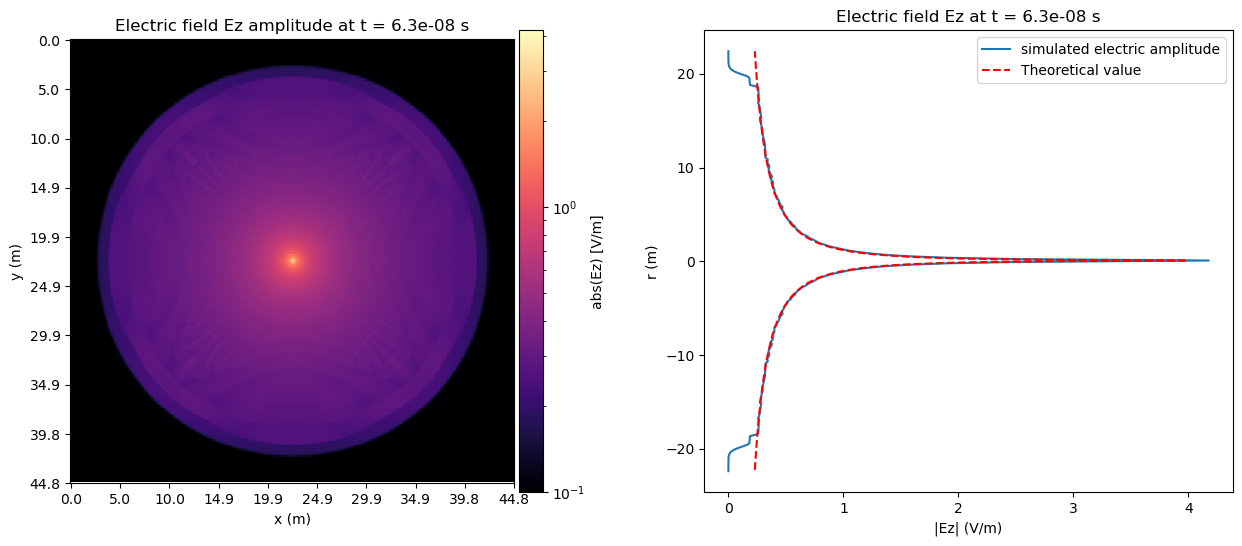
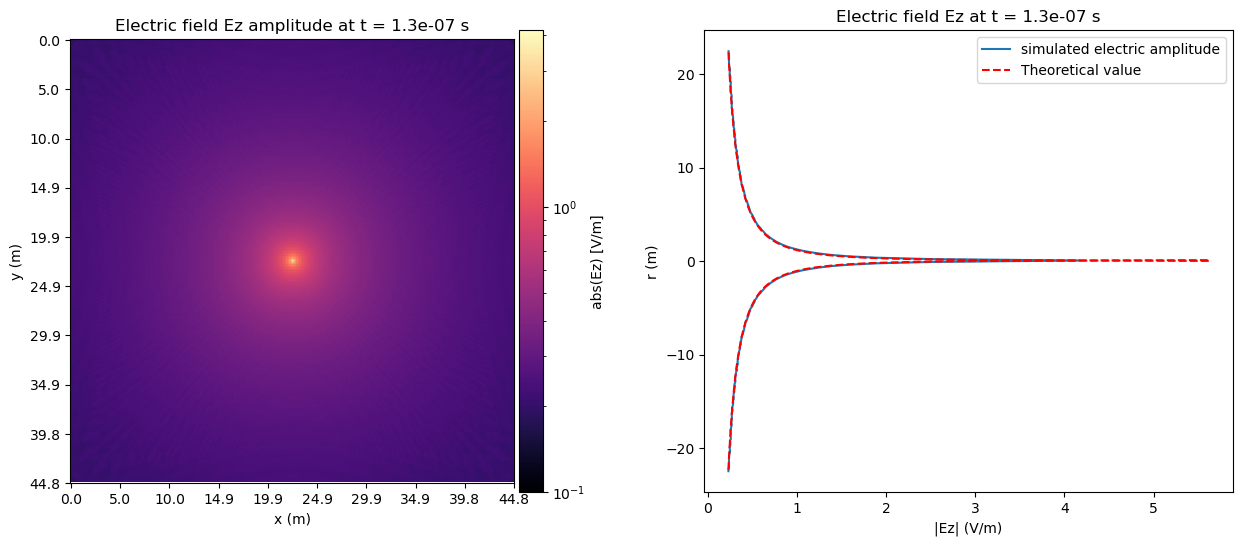
better current validation

diff --git a/2D/validation_current_line.py b/2D/validation_current_line.py
@@ -20,7 +20,7 @@ from matplotlib.axes import Axes
 
 # parameters
 # settings parameters
-M = 300  # number of space samples per dimension
+M = 600  # number of space samples per dimension
 FREQ_REF = 1e8  # Hz
 Q = int(M / 1.2)  # number of time steps
 TOTAL_CURRENT = 0.01  # A
@@ -72,7 +72,7 @@ im = plot_field(
     ax1,
     DELTA_T,
     DELTA_X,
-    E_amplitude,
+    E_amplitude[150:450, 150:450],
     norm_type="log",
     min_color_value=0.1,
 )
@@ -82,8 +82,8 @@ ax1.set_title(f"Electric field Ez amplitude at t = {DELTA_T * Q:.1e} s")
 E_max = np.max(np.abs(E_amplitude))
 
 ax2.plot(
-    np.abs(E_amplitude[M // 2, :]),
-    np.linspace(0, TOTAL_X, M) - TOTAL_X / 2,
+    np.abs(E_amplitude[M // 2, 150:450]),
+    np.linspace(0, TOTAL_X/2, round(M/2)) - TOTAL_X / 4,
     label=f"simulated electric amplitude",
 )
 ax2.set_ylabel("r (m)")
@@ -93,14 +93,14 @@ ax2.set_title(f"Electric field Ez at t = {DELTA_T * Q:.1e} s")
 # add the theoritical value
 Z_0 = np.sqrt(u0 / e0)
 beta = 2 * np.pi * FREQ_REF / C_VIDE
-x_axis = np.linspace(0, TOTAL_X / 2, M )
+x_axis = np.linspace(0, TOTAL_X / 4, M)
 
 
 E_theoritical = TOTAL_CURRENT * Z_0 * np.sqrt(beta / (8 * np.pi)) / (np.sqrt(x_axis))
 
 ax2.plot(
     E_theoritical,
-    np.linspace(0, TOTAL_X / 2, M ),
+    np.linspace(0, TOTAL_X / 4, M),
     label="Theoretical value",
     linestyle="--",
     color="red",
@@ -110,7 +110,7 @@ ax2.legend()
 # plot the other half
 ax2.plot(
     E_theoritical[::-1],
-    np.linspace(0, TOTAL_X / 2, M ) - TOTAL_X / 2 + DELTA_X,
+    np.linspace(0, TOTAL_X / 4, M) - TOTAL_X / 4 + DELTA_X,
     linestyle="--",
     color="red",
 )
@@ -121,10 +121,13 @@ non_zero = np.abs(E_amplitude[M // 2, :]) > 0.01 * E_max
 index = np.where(non_zero)[0]
 distance = (M // 2 - index[0]) * DELTA_X
 print("distance travalled: ", distance, "m")
-print("time travalled: ", DELTA_T * (Q), "s")
-print("speed: ", distance / (DELTA_T * (Q)), "m/s")
+print("time travalled: ", DELTA_T * (Q) + 1 / (2 * FREQ_REF), "s")
+print("speed: ", distance / (DELTA_T * (Q) + 1 / (2 * FREQ_REF)), "m/s")
 print("expected speed: ", C_VIDE, "m/s")
-print("relative error: ", (distance / (DELTA_T * (Q)) - C_VIDE) / C_VIDE)
+print(
+    "relative error: ",
+    (distance / (DELTA_T * (Q) + 1 / (2 * FREQ_REF)) - C_VIDE) / C_VIDE,
+)
 
 
 plt.savefig("images/current_line_validation.png", bbox_inches="tight")
